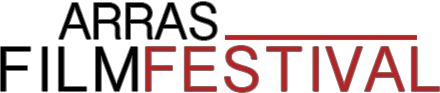
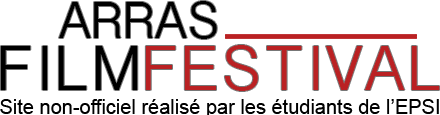
More updated
osef?

diff --git a/web/bundles/ressources/css/main.css b/web/bundles/ressources/css/main.css
@@ -16,8 +16,7 @@ menu li:hover{background-image: url('../img/menu-hover.png'); color: #fff; }
 menu a{color: #b2b2b2; text-decoration: none; }
 menu .current { background-color: #5c0f0f; color: #fff;}
 header{height: 187px;}
-.aff{width:440px; height: 93px; margin: 47px 20px; float:left;}
-.aff h1{font-size:3.2em;}
+.aff{width:440px; height: 115px; background-image: url('../img/arras-film-festival.png'); margin: 47px 20px; float:left;}
 .logo_box{background-color: #CACACA;width: 300px;height: 133px;float: left;border: 2px solid #E5E5E5;margin: 20px 80px;background-image: url('../img/logo-box-background.png');-webkit-box-shadow: 0px 2px 5px 0px #A5A5A5;box-shadow: 0px 2px 5px 0px #A5A5A5;}
 .epsi{margin: 12px 10px; float: left;}
 .polecom{ margin: 50px 30px; float: left;}

diff --git a/web/app.php b/web/app.php
@@ -15,7 +15,7 @@ $loader->register(true);
 require_once __DIR__.'/../app/AppKernel.php';
 //require_once __DIR__.'/../app/AppCache.php';
 
-$kernel = new AppKernel('prod', true);
+$kernel = new AppKernel('prod', false);
 $kernel->loadClassCache();
 //$kernel = new AppCache($kernel);
 $request = Request::createFromGlobals();

diff --git a/README.md b/README.md
@@ -14,6 +14,16 @@ What is this ?
 How to build me ?
 -----------------
 
+```
+curl -s https://getcomposer.org/installer | php
+php composer.phar install
+```
+
+```
+http://localhost/path-to-project/config.php
+http://localhost/path-to-project/app_dev.php
+```
+
 #### Requirements
 
  * **Symfony2 is only supported on PHP 5.3.3 and up.**
